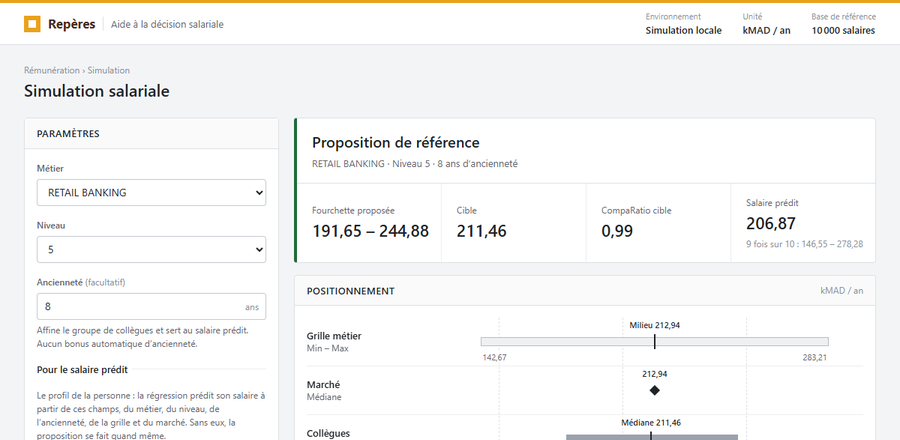
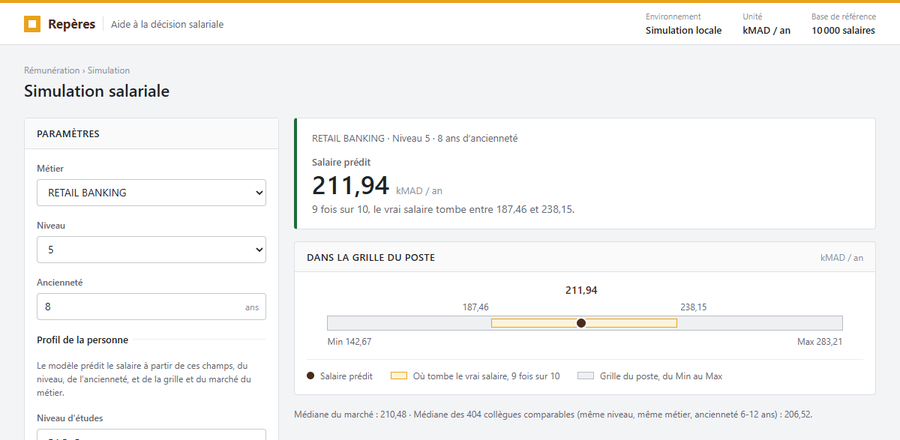
docs: mettre à jour la carte de l'aide à la décision, sur l'écran d'accueil
La carte « Décider d'un salaire » décrivait encore l'ancienne page.

- src/generate_accueil.py : le texte de la carte ne parle plus de « fourchette proposée » ni de « cible », qui ont quitté l'aide à la décision. Il dit ce qu'elle donne maintenant : le salaire prédit par le modèle et sa fourchette, placés dans la grille du poste.
- accueil/decision.png : l'aperçu de la carte, refait sur la nouvelle page.

diff --git a/src/generate_accueil.py b/src/generate_accueil.py
@@ -99,8 +99,8 @@ def build_html(c: dict, lien_tableau: str, maintenant: datetime) -> str:
                  (nombre(c["cout"]), "kMAD d'ajustement")],
                 "Ouvrir le tableau de bord")
         + carte(AIDE_DECISION, "accueil/decision.png", "Décision", 3, "Décider d'un salaire",
-                "Pour un métier, un niveau et un profil : la fourchette proposée, la cible et le salaire "
-                "attendu par le modèle.",
+                "Pour un métier, un niveau et un profil : le salaire prédit par le modèle et sa fourchette, "
+                "placés dans la grille du poste.",
                 [(nombre(c["grilles"]), "grilles"), (nombre(c["metiers"]), "métiers"),
                  (nombre(c["niveaux"]), "niveaux")],
                 "Ouvrir l'aide à la décision",
